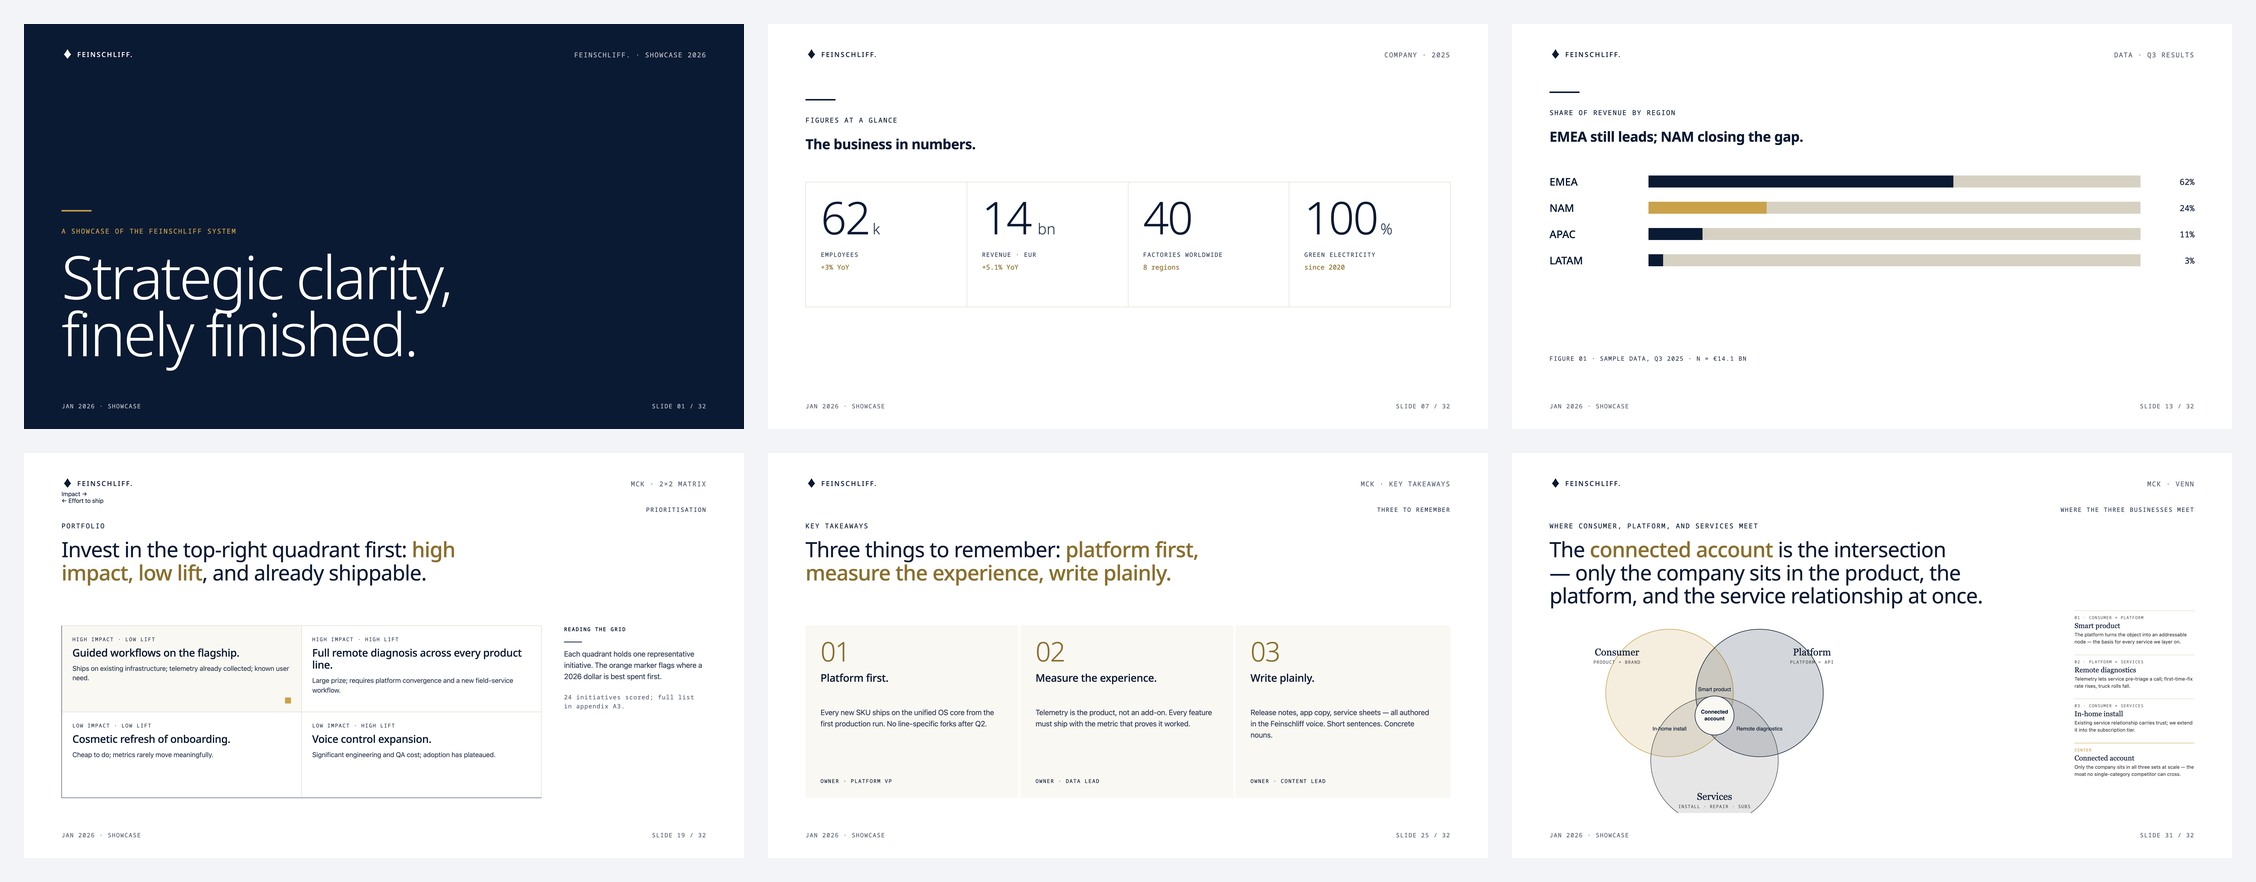
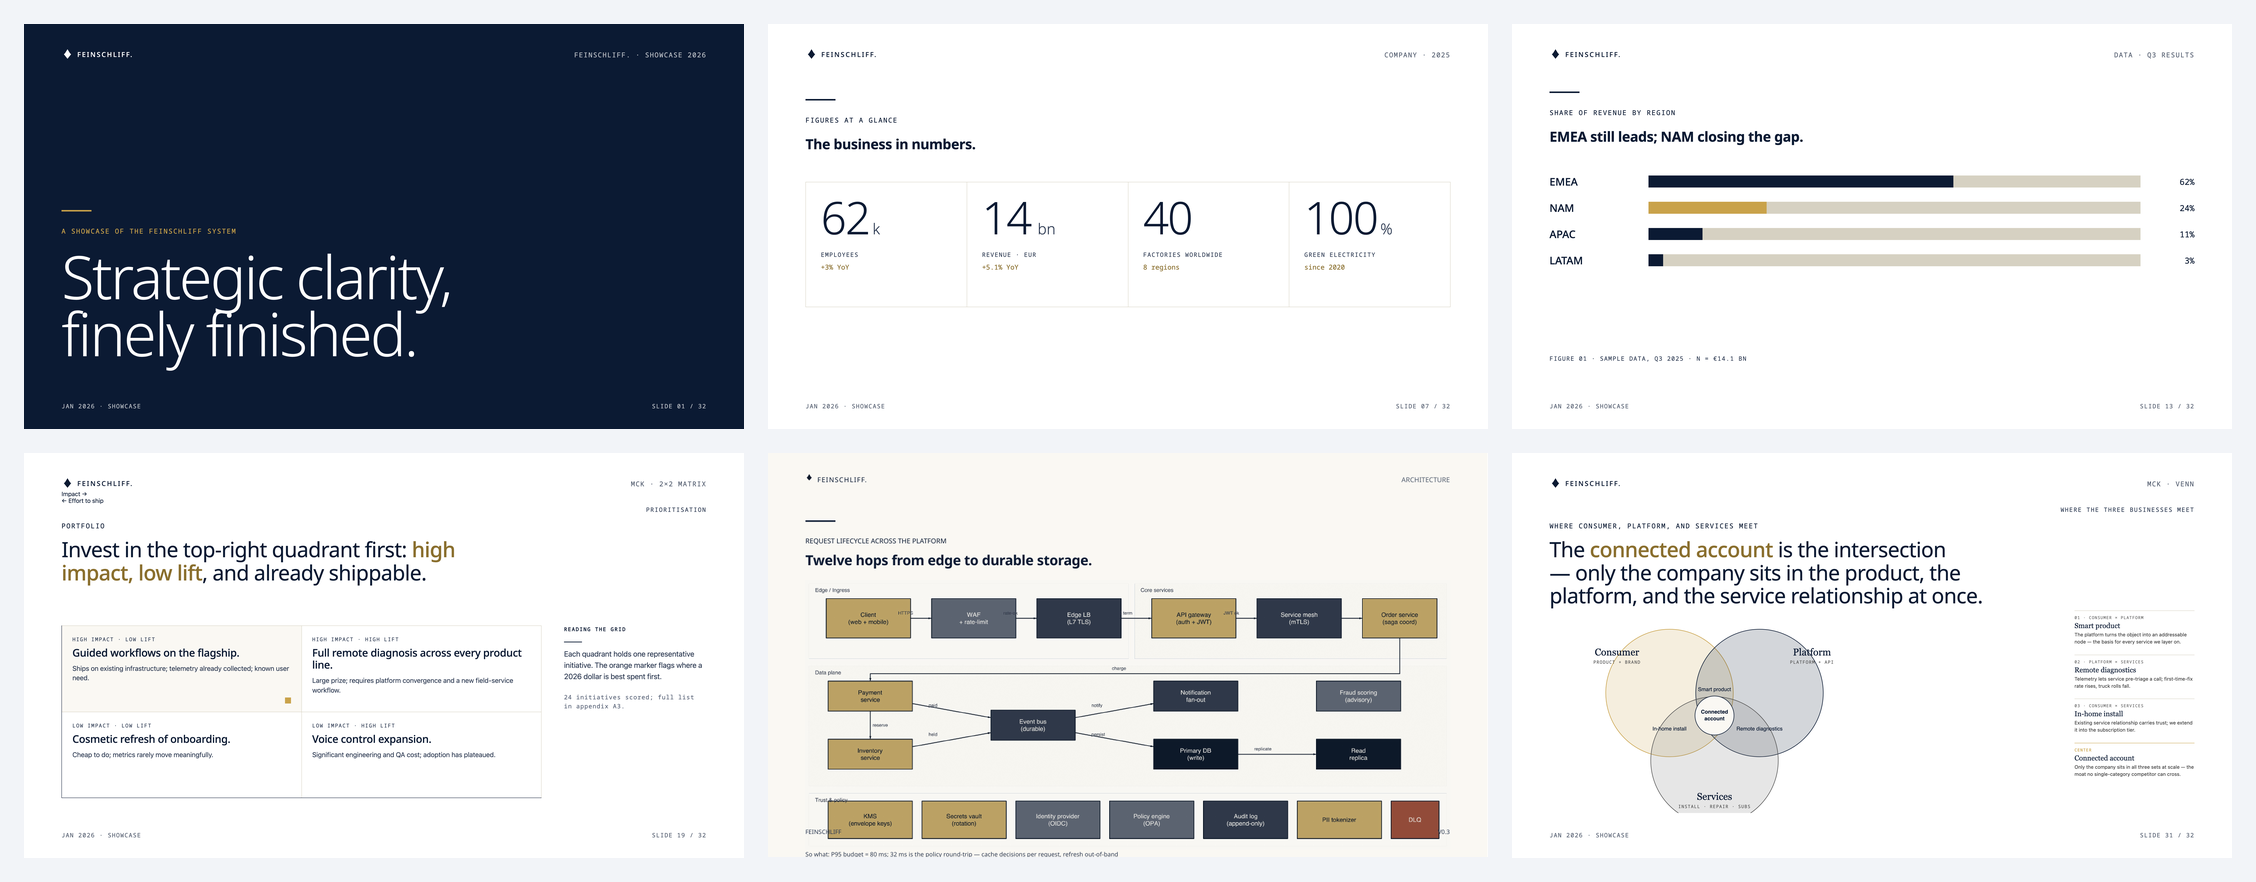
feat(showcase): swap hero-grid slot 5 for HQ Excalidraw architecture
The hero-grid composite in the README now shows the new full Excalidraw
architecture diagram (twelve hops, port-anchored arrows, three labelled
zones) in slot 5, replacing the "Three things to remember" key-takeaways
slide. Showcases the diagram-authoring capability that the brand pack
exposes via the excalidraw skill.

generate_showcase_visuals.py: HERO_PICKS entries can now be either an
int (deck-slide index, as before) or a Path (an arbitrary PNG, used
as-is). The Path branch lets the grid blend in renders that don't come
from the deck HTML — here, the Excalidraw atlas PNG at
docs/brand-previews/feinschliff/13-excalidraw-diagram-full.png.

Changed region(s): [[0.3413, 0.5816, 0.6516, 0.9796], [0.6206, 0.5204, 0.6516, 0.551]]

diff --git a/scripts/generate_showcase_visuals.py b/scripts/generate_showcase_visuals.py
@@ -33,11 +33,25 @@ SLIDES_DIR = IMAGES_DIR / "slides"
 
 
 # --- Hero grid configuration -------------------------------------------------
-# Indices here map onto slide-NN.png produced by render_slides().
-# Picked across the deck for visual variety: cover (orange), kpi grid, two-col,
-# big number, quote-ish, and an end card. Adjust if a particular index is
-# visually weak after a first pass.
-HERO_PICKS = [0, 6, 12, 18, 24, 30]
+# Each entry is either:
+#   - an int → use SLIDES_DIR/slide-NN.png (from render_slides())
+#   - a Path → use the file at that path directly
+# The Path branch lets us mix in renders that don't come from the deck
+# HTML — for example, an Excalidraw layout from docs/brand-previews/ —
+# so the hero grid can showcase capabilities the deck doesn't itself
+# demonstrate.
+#
+# Picked across the deck for visual variety: cover (orange), kpi grid,
+# two-col, big number, Excalidraw diagram (HQ from atlas), end card.
+HERO_PICKS: list[int | Path] = [
+    0,
+    6,
+    12,
+    18,
+    REPO_ROOT / "docs" / "brand-previews" / "feinschliff"
+        / "13-excalidraw-diagram-full.png",
+    30,
+]
 HERO_COLS = 3
 HERO_ROWS = 2
 HERO_GAP = 24
@@ -131,10 +145,21 @@ async def render_slides() -> list[Path]:
         return rendered
 
 
+def _resolve_pick(pick: int | Path) -> Path:
+    """Map a HERO_PICKS entry to an actual PNG path.
+
+    ints reference the deck-rendered slides under SLIDES_DIR; Paths are
+    used as-is so the grid can blend in renders from other sources
+    (e.g., the Excalidraw atlas under docs/brand-previews/)."""
+    if isinstance(pick, int):
+        return SLIDES_DIR / f"slide-{pick:02d}.png"
+    return pick
+
+
 def build_hero_grid(rendered: list[Path]) -> Path:
     from PIL import Image
 
-    picks = [SLIDES_DIR / f"slide-{i:02d}.png" for i in HERO_PICKS]
+    picks = [_resolve_pick(p) for p in HERO_PICKS]
     missing = [p for p in picks if not p.exists()]
     if missing:
         raise SystemExit(f"Missing slide PNGs for hero grid: {missing}")